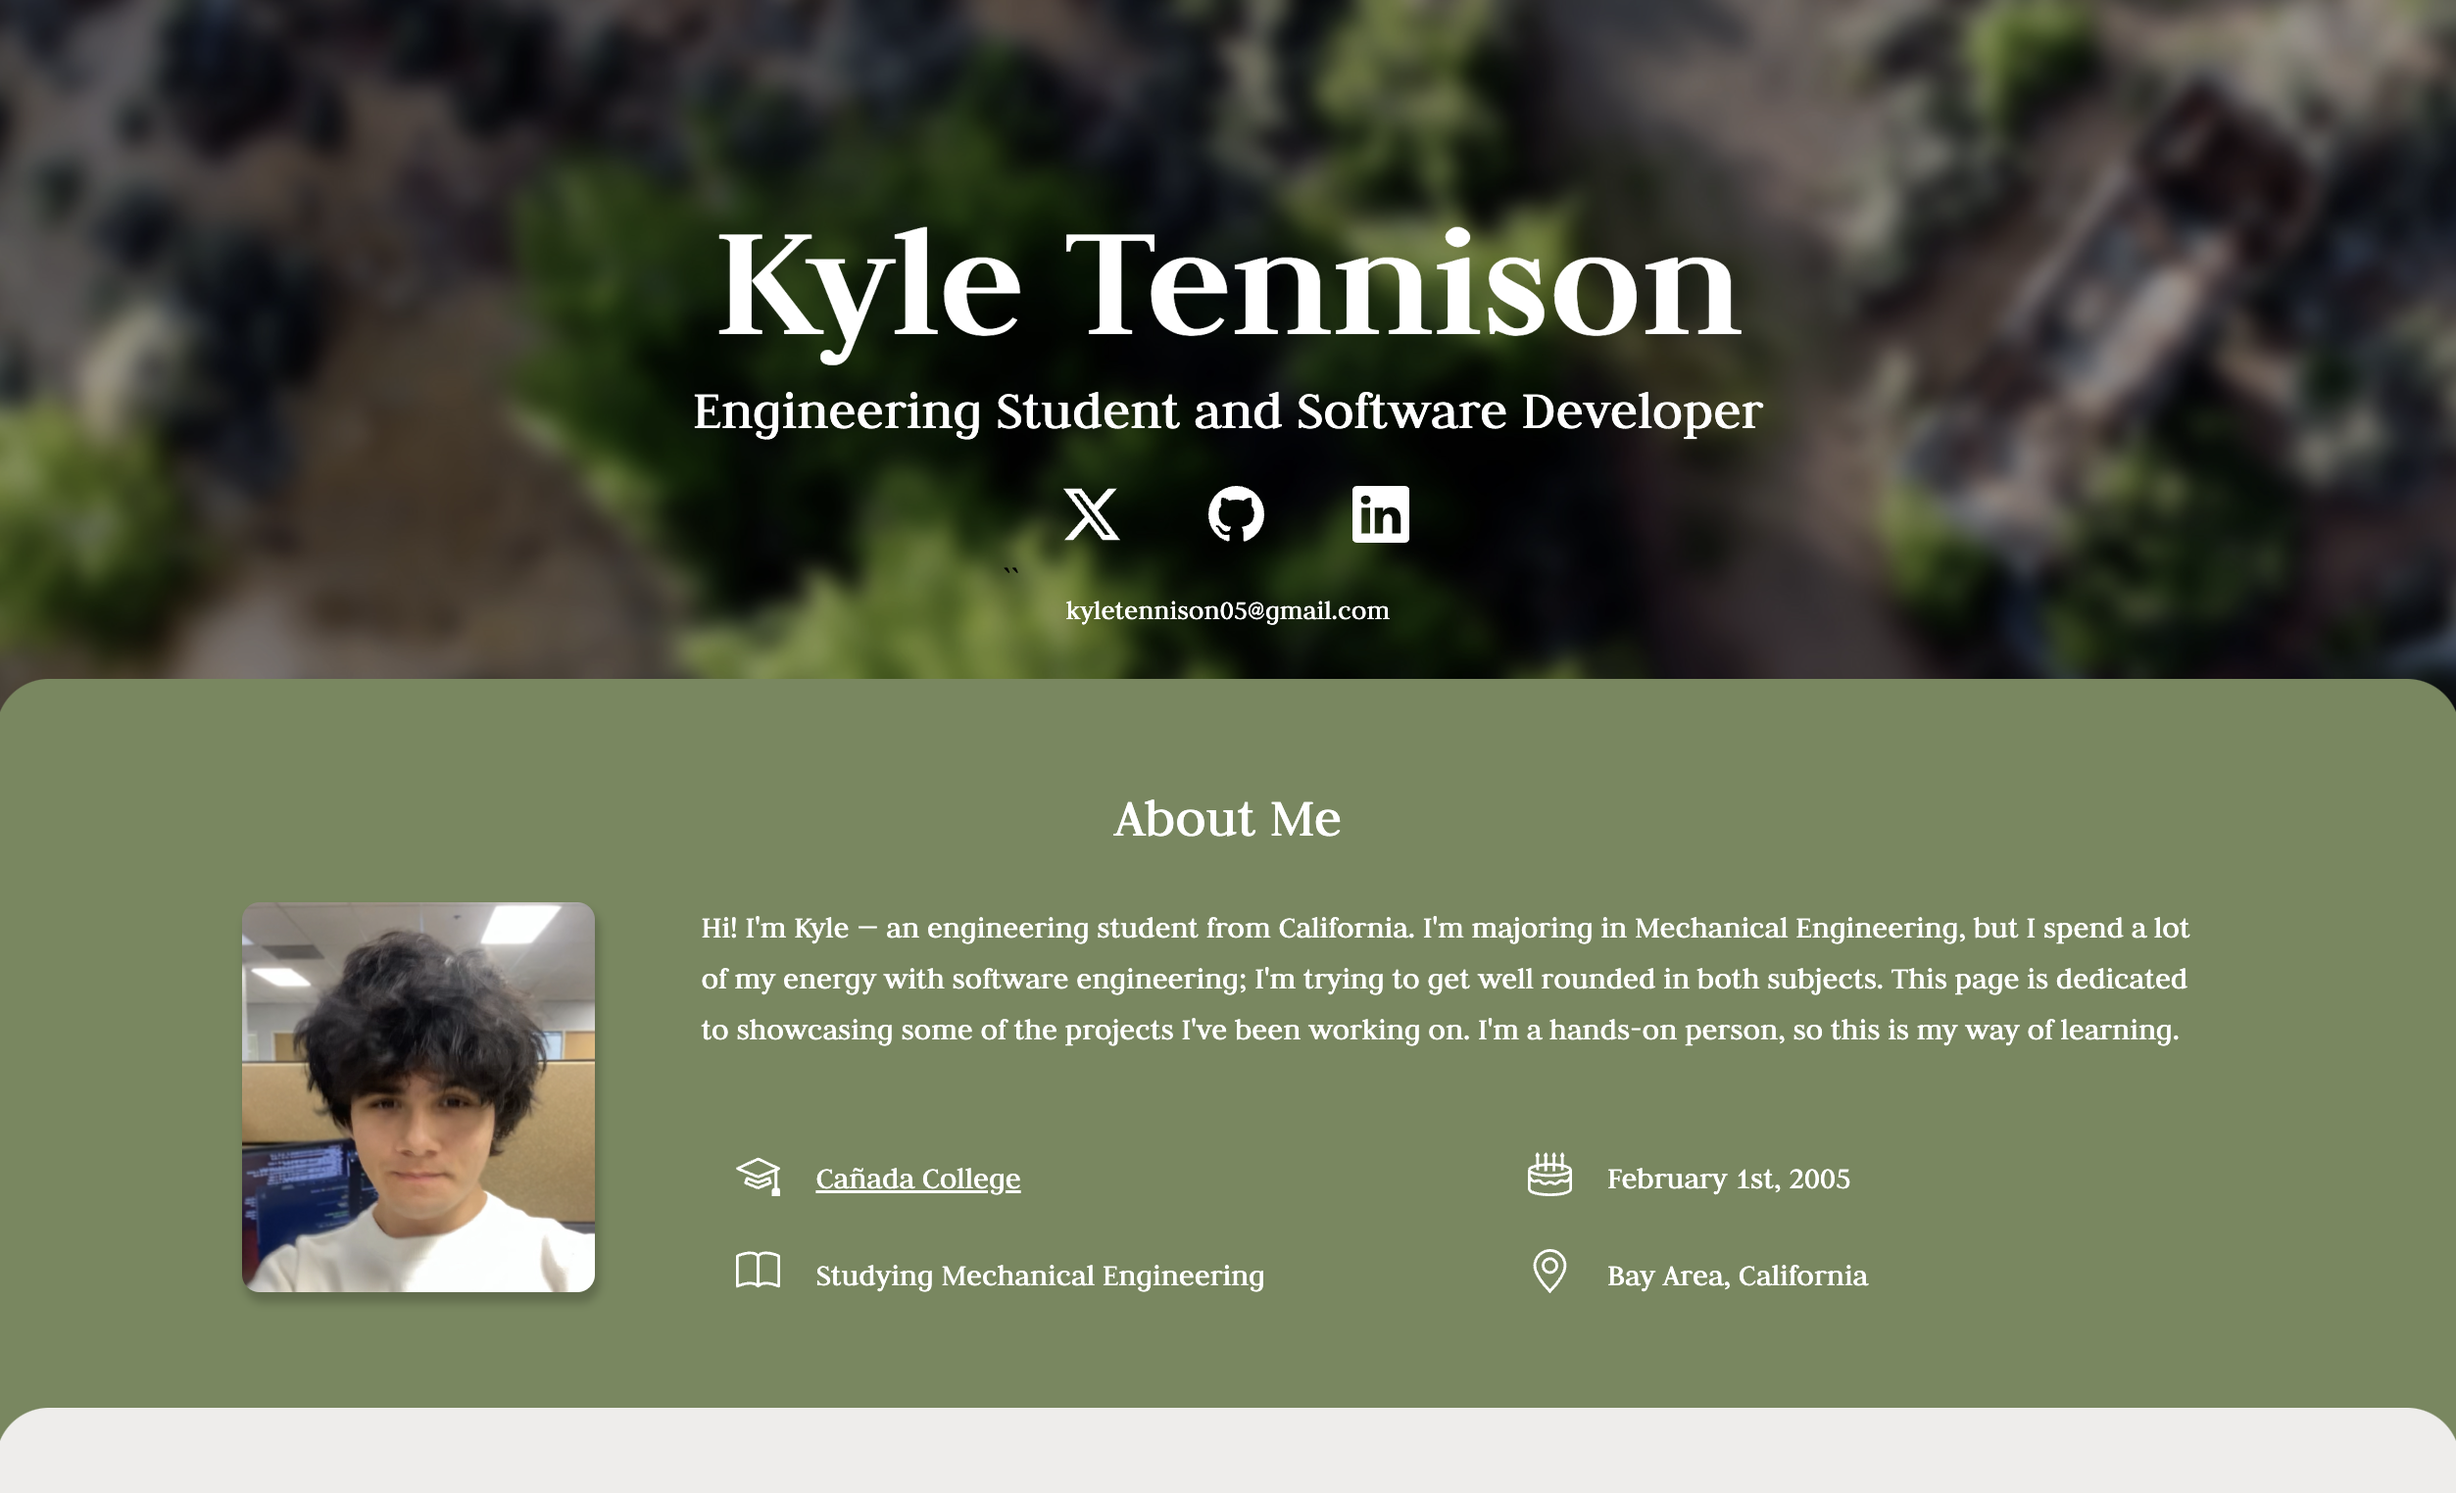
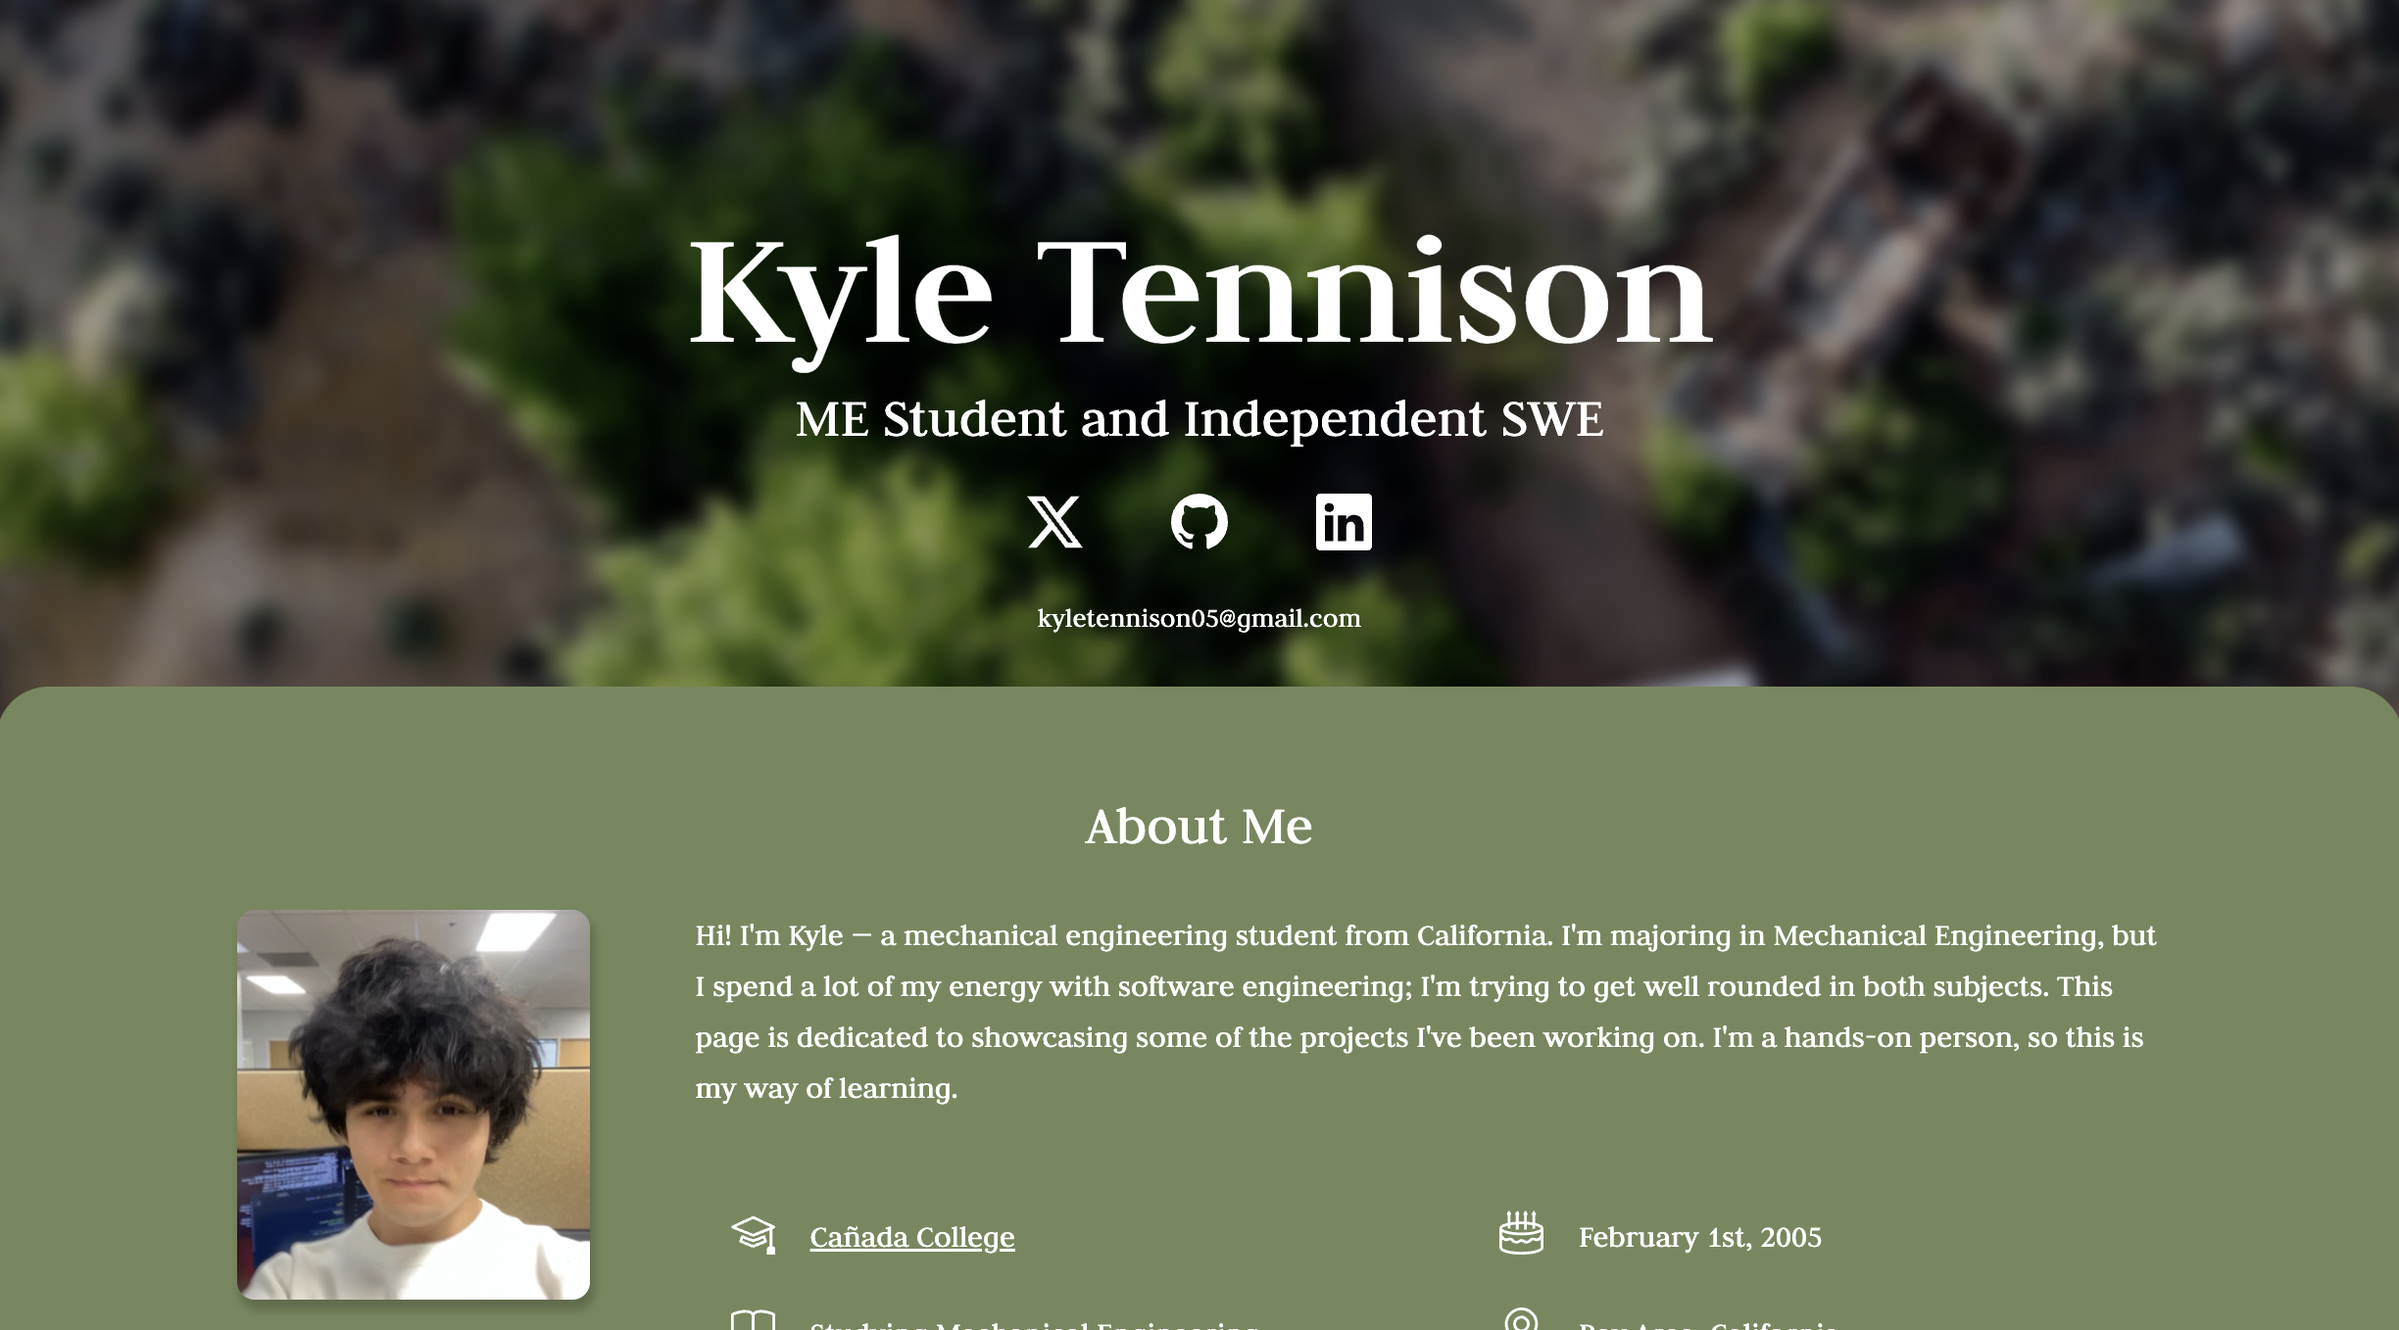
update subtitle

diff --git a/src/home/home.jsx b/src/home/home.jsx
@@ -26,7 +26,7 @@ export default function Home() {
         style={{ backgroundImage: `url(${background_image})` }}
       >
         <h1>Kyle Tennison</h1>
-        <h2>Engineering Student and Software Developer</h2>
+        <h2>ME Student and Independent SWE</h2>
         <div id="social-icons">
           <img className="icon clickable" src={twitter_icon}></img>
           <img
@@ -58,7 +58,7 @@ export default function Home() {
           </div>
           <div className="right">
             <a>
-              Hi! I&apos;m Kyle — an engineering student from California.
+              Hi! I&apos;m Kyle — a mechanical engineering student from California.
               I&apos;m majoring in Mechanical Engineering, but I spend a lot of
               my energy with software engineering; I&apos;m trying to get well
               rounded in both subjects. This page is dedicated to showcasing
